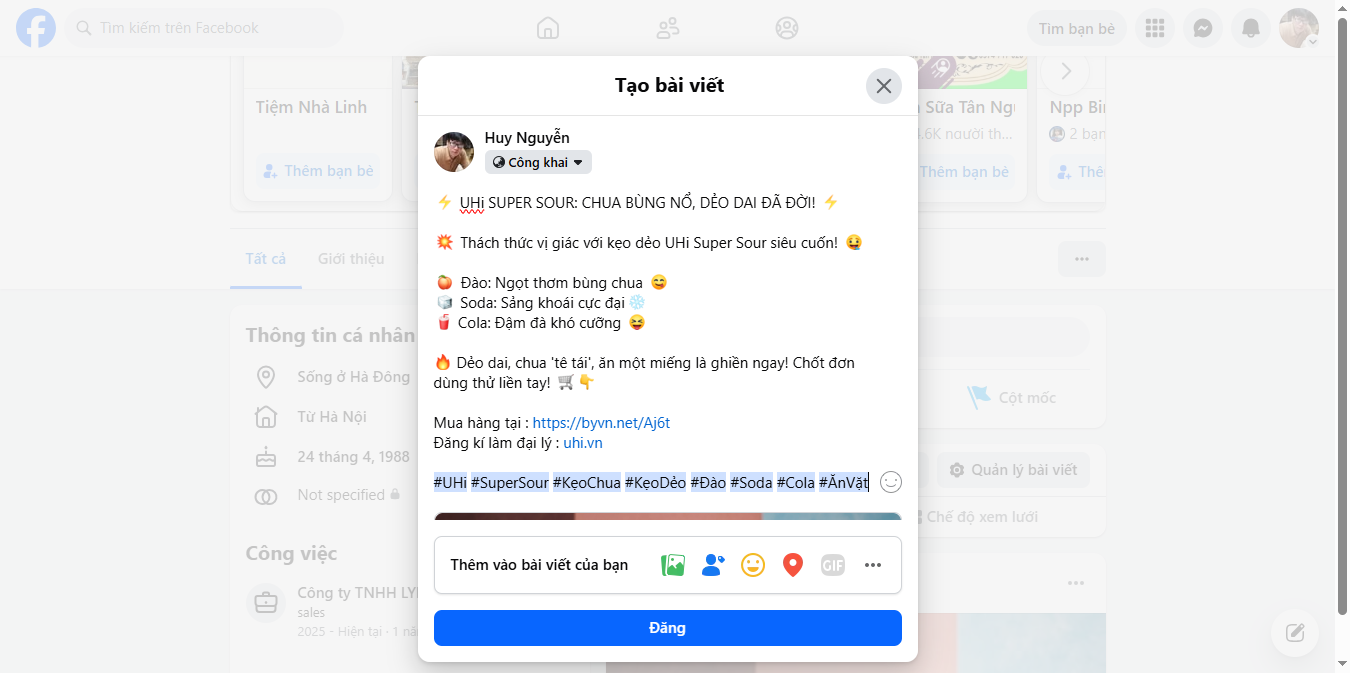
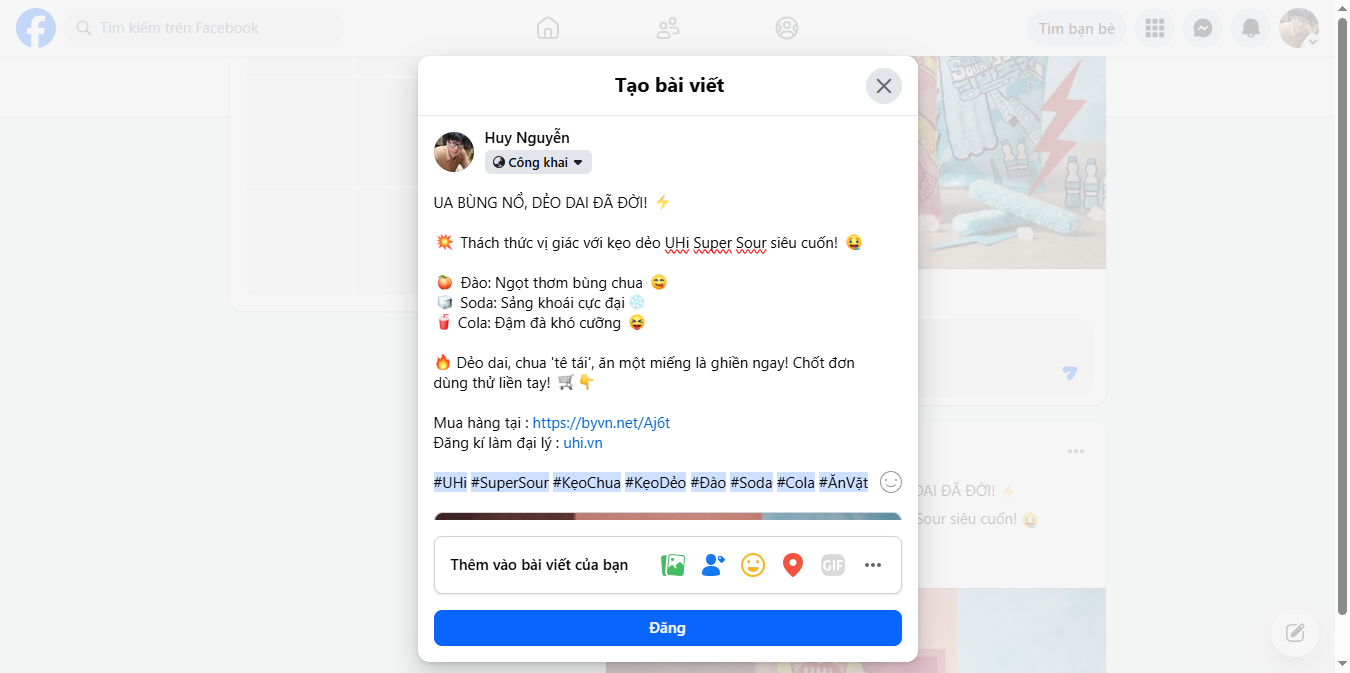
fix: warm up textbox before typing

diff --git a/scripts/marketing/auto_post_profile.js b/scripts/marketing/auto_post_profile.js
@@ -274,9 +274,8 @@ function spinText(text) {
         // ============================================================
         console.log("[POST] Bước 4: Gõ nội dung...");
         if (finalMessage) {
-            // Focus textbox TRONG dialog "Tạo bài viết" (KHÔNG phải dialog Thông báo!)
-            const focused = await page.evaluate(() => {
-                // Tìm TẤT CẢ dialog, lấy đúng cái "Tạo bài viết"
+            // Tìm textbox TRONG dialog "Tạo bài viết" và CLICK bằng mouse (isTrusted!)
+            const textboxInfo = await page.evaluate(() => {
                 const allDialogs = Array.from(document.querySelectorAll('div[role="dialog"]'));
                 let targetDialog = null;
                 for (const d of allDialogs) {
@@ -291,20 +290,30 @@ function spinText(text) {
                 if (targetDialog) {
                     textbox = targetDialog.querySelector('div[role="textbox"][contenteditable="true"]');
                 }
-                // Fallback cuối cùng
                 if (!textbox) {
                     textbox = document.querySelector('div[role="textbox"][contenteditable="true"]');
                 }
                 if (textbox) {
-                    textbox.focus();
-                    return true;
+                    textbox.scrollIntoView({ block: 'center' });
+                    const rect = textbox.getBoundingClientRect();
+                    return { found: true, x: rect.x + rect.width / 2, y: rect.y + rect.height / 2 };
                 }
-                return false;
+                return { found: false };
             });
             
-            if (focused) {
+            if (textboxInfo.found) {
+                // Click vào textbox bằng mouse (isTrusted: true) → React bắt event đúng
+                await page.mouse.click(textboxInfo.x, textboxInfo.y);
+                await delay(2000); // Chờ React attach event handlers
+                
+                // "Warm up" input: gõ space rồi xóa → kích hoạt React listener
+                await page.keyboard.press('Space');
+                await delay(200);
+                await page.keyboard.press('Backspace');
                 await delay(500);
-                await page.keyboard.type(finalMessage, { delay: rdn(20, 50) });
+                
+                // Gõ nội dung thật
+                await page.keyboard.type(finalMessage, { delay: rdn(30, 60) });
                 console.log("[POST] ✅ Đã gõ nội dung bài viết.");
             } else {
                 console.log("[POST] ⚠ Không thể focus textbox.");
